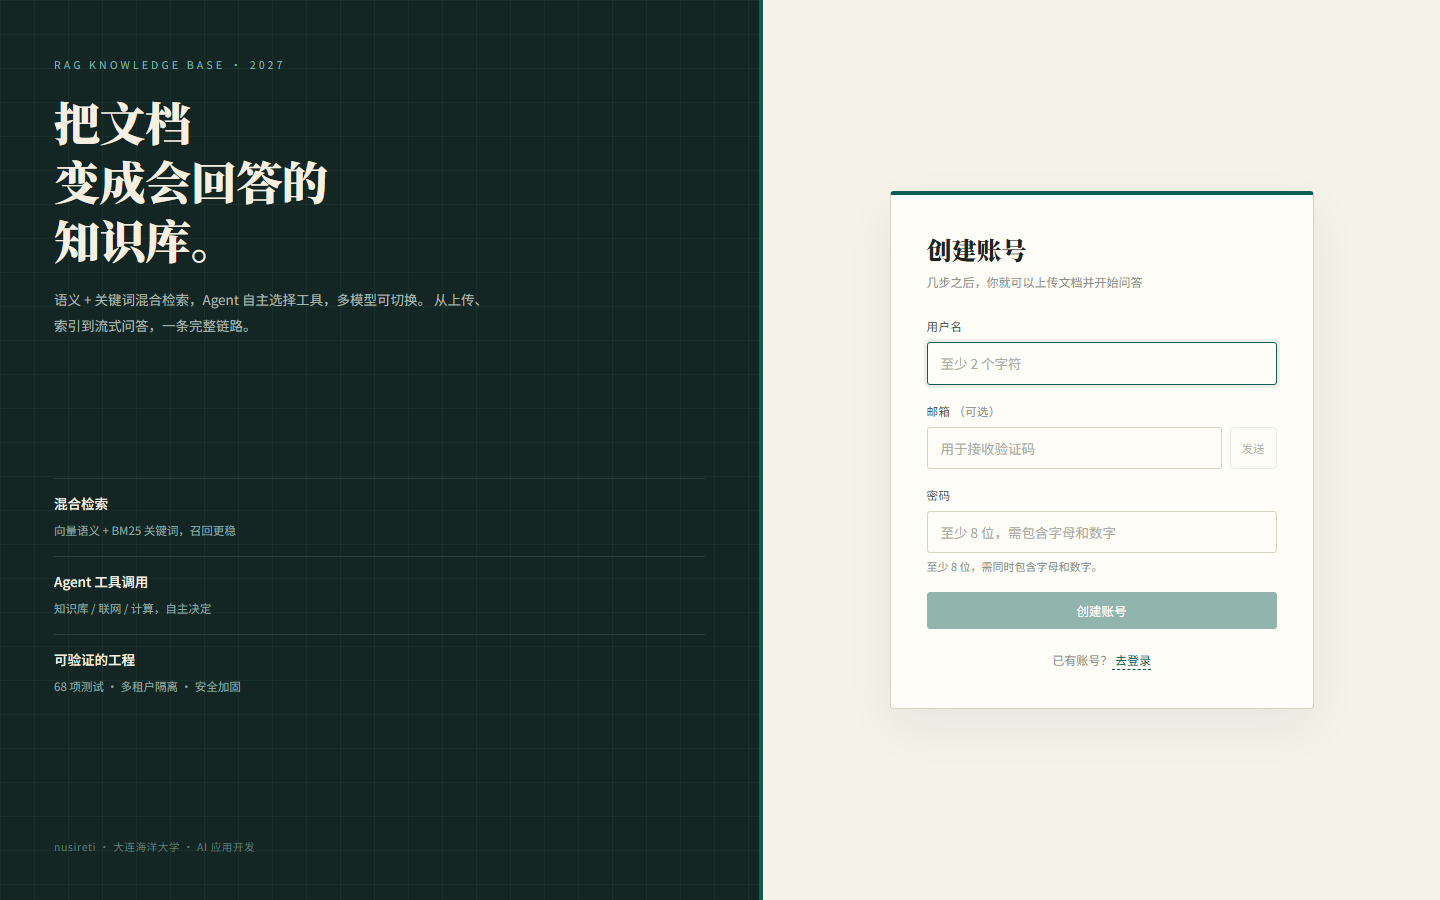
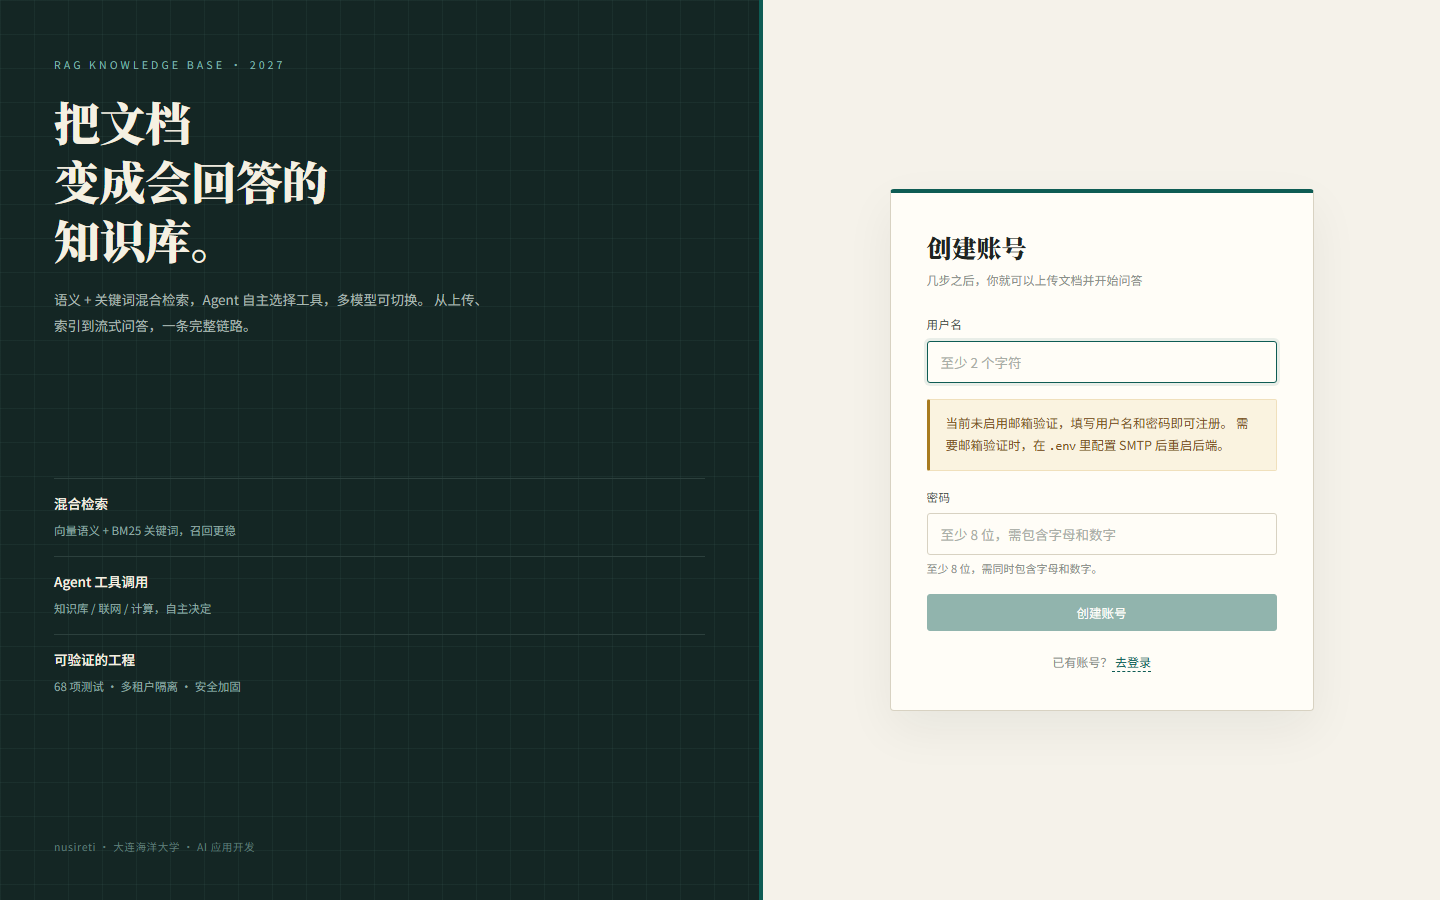
fix: 注册页在 SMTP 未配置时隐藏邮箱验证，避免 500
- app/verify.py: 新增 email_verification_enabled()，SMTP 账号/授权码不全时视为不可用
- backend/api/auth.py: 新增 /api/auth/capabilities；verify-code 未配置时返回 503 明确提示；
  注册仅在邮件服务可用时强制验证码
- frontend: 注册页按 capabilities 自动隐藏邮箱/验证码流程，未配置时直接用户名+密码注册
- tests: 新增 4 项注册/验证码回归测试（86 项全过）
- README/依赖注释/截图同步更新到 86 项

diff --git a/frontend/src/pages/Register.tsx b/frontend/src/pages/Register.tsx
@@ -14,9 +14,17 @@ export function RegisterPage() {
   const [error, setError] = useState('');
   const [codeSent, setCodeSent] = useState(false);
   const [cooldown, setCooldown] = useState(0);
+  const [emailVerification, setEmailVerification] = useState<boolean | null>(
+    null,
+  );
   const timer = useRef<number | null>(null);
 
   useEffect(() => {
+    auth
+      .capabilities()
+      .then((cap) => setEmailVerification(cap.email_verification))
+      .catch(() => setEmailVerification(false));
+
     return () => {
       if (timer.current) window.clearInterval(timer.current);
     };
@@ -46,8 +54,8 @@ export function RegisterPage() {
       const res = await auth.register(
         username.trim(),
         password,
-        email.trim(),
-        verifyCode.trim(),
+        emailVerification ? email.trim() : '',
+        emailVerification ? verifyCode.trim() : '',
       );
       localStorage.setItem('token', res.token);
       localStorage.setItem('username', res.username);
@@ -100,47 +108,56 @@ export function RegisterPage() {
           />
         </div>
 
-        <div className="field">
-          <label className="label" htmlFor="reg-email">
-            邮箱 <span style={{ color: 'var(--ink-mute)' }}>（可选）</span>
-          </label>
-          <div style={{ display: 'flex', gap: 8 }}>
-            <input
-              id="reg-email"
-              className="input"
-              type="email"
-              value={email}
-              onChange={(e) => setEmail(e.target.value)}
-              placeholder="用于接收验证码"
-              autoComplete="email"
-            />
-            <Button
-              size="sm"
-              onClick={sendCode}
-              disabled={!email.trim() || cooldown > 0}
-              style={{ flexShrink: 0 }}
-            >
-              {cooldown > 0 ? `${cooldown}s` : codeSent ? '重发' : '发送'}
-            </Button>
-          </div>
-        </div>
+        {emailVerification === null ? null : emailVerification ? (
+          <>
+            <div className="field">
+              <label className="label" htmlFor="reg-email">
+                邮箱 <span style={{ color: 'var(--ink-mute)' }}>（可选）</span>
+              </label>
+              <div style={{ display: 'flex', gap: 8 }}>
+                <input
+                  id="reg-email"
+                  className="input"
+                  type="email"
+                  value={email}
+                  onChange={(e) => setEmail(e.target.value)}
+                  placeholder="用于接收验证码"
+                  autoComplete="email"
+                />
+                <Button
+                  size="sm"
+                  onClick={sendCode}
+                  disabled={!email.trim() || cooldown > 0}
+                  style={{ flexShrink: 0 }}
+                >
+                  {cooldown > 0 ? `${cooldown}s` : codeSent ? '重发' : '发送'}
+                </Button>
+              </div>
+            </div>
 
-        {codeSent ? (
-          <div className="field">
-            <label className="label" htmlFor="reg-code">
-              验证码
-            </label>
-            <input
-              id="reg-code"
-              className="input"
-              type="text"
-              value={verifyCode}
-              onChange={(e) => setVerifyCode(e.target.value)}
-              placeholder="输入邮箱收到的验证码"
-              autoComplete="one-time-code"
-            />
+            {codeSent ? (
+              <div className="field">
+                <label className="label" htmlFor="reg-code">
+                  验证码
+                </label>
+                <input
+                  id="reg-code"
+                  className="input"
+                  type="text"
+                  value={verifyCode}
+                  onChange={(e) => setVerifyCode(e.target.value)}
+                  placeholder="输入邮箱收到的验证码"
+                  autoComplete="one-time-code"
+                />
+              </div>
+            ) : null}
+          </>
+        ) : (
+          <div className="note" style={{ marginBottom: 16 }}>
+            当前未启用邮箱验证，填写用户名和密码即可注册。
+            需要邮箱验证时，在 <code>.env</code> 里配置 SMTP 后重启后端。
           </div>
-        ) : null}
+        )}
 
         <div className="field">
           <label className="label" htmlFor="reg-password">

diff --git a/frontend/src/components/AuthShell.tsx b/frontend/src/components/AuthShell.tsx
@@ -40,7 +40,7 @@ export function AuthShell({
           </div>
           <div className="auth-point">
             <b>可验证的工程</b>
-            <span>68 项测试 · 多租户隔离 · 安全加固</span>
+            <span>86 项测试 · 多租户隔离 · 安全加固</span>
           </div>
         </div>
 

diff --git a/frontend/src/api.ts b/frontend/src/api.ts
@@ -84,6 +84,8 @@ export const auth = {
       body: JSON.stringify({ email }),
     }),
   getMe: () => request<UserInfo>('/auth/me'),
+  capabilities: () =>
+    request<{ email_verification: boolean }>('/auth/capabilities'),
 };
 
 /* ------------------------------------------------------------------ */

diff --git a/tests/test_register_api.py b/tests/test_register_api.py
@@ -1,0 +1,65 @@
+"""注册/验证码接口在 SMTP 未配置时的行为。"""
+
+import pytest
+from fastapi.testclient import TestClient
+
+from app.config import settings
+from backend.main import app
+
+
+@pytest.fixture(autouse=True)
+def smtp_off(monkeypatch):
+    """强制关闭 SMTP，保证测试结果与机器上的 .env 无关。"""
+    monkeypatch.setattr(settings, 'SMTP_ENABLE', False)
+    monkeypatch.setattr(settings, 'SMTP_USER', '')
+    monkeypatch.setattr(settings, 'SMTP_PASSWORD', '')
+
+
+def test_capabilities_reports_email_verification_off():
+    client = TestClient(app)
+    res = client.get('/api/auth/capabilities')
+
+    assert res.status_code == 200
+    assert res.json()['email_verification'] is False
+
+
+def test_verify_code_returns_503_without_smtp():
+    client = TestClient(app)
+    res = client.post(
+        '/api/auth/verify-code', json={'email': 'test@example.com'}
+    )
+
+    assert res.status_code == 503
+    assert '邮箱' in res.json()['detail']
+
+
+def test_register_without_email():
+    client = TestClient(app)
+    res = client.post(
+        '/api/auth/register',
+        json={
+            'username': 'reguser',
+            'password': 'Pass12345',
+            'email': '',
+            'verify_code': '',
+        },
+    )
+
+    assert res.status_code == 200
+    assert res.json()['username'] == 'reguser'
+
+
+def test_register_with_email_skips_code_when_smtp_disabled():
+    client = TestClient(app)
+    res = client.post(
+        '/api/auth/register',
+        json={
+            'username': 'reguser2',
+            'password': 'Pass12345',
+            'email': 'x@example.com',
+            'verify_code': '',
+        },
+    )
+
+    assert res.status_code == 200
+    assert res.json()['username'] == 'reguser2'

diff --git a/backend/api/auth.py b/backend/api/auth.py
@@ -52,12 +52,22 @@ async def login(req: LoginRequest):
     )
 
 
+@router.get("/capabilities")
+async def auth_capabilities():
+    """前端用来判断是否展示邮箱验证流程。"""
+    from app.verify import email_verification_enabled
+
+    return {"email_verification": email_verification_enabled()}
+
+
 @router.post("/register")
 async def register(req: RegisterRequest):
     """用户注册（带可选的验证码校验）"""
-    # 验证码校验
-    if req.email:
-        from app.verify import verify_code
+    from app.verify import email_verification_enabled, verify_code
+
+    # 只有邮件服务真正可用时才强制验证码。
+    # 未配置 SMTP 时如果还强制，注册页会永远卡在「验证码发送失败」。
+    if req.email and email_verification_enabled():
         if not verify_code(req.email, req.verify_code):
             raise HTTPException(status_code=400, detail="验证码错误或已过期")
 
@@ -81,8 +91,15 @@ async def register(req: RegisterRequest):
 
 @router.post("/verify-code")
 async def send_verify_code(req: VerifyCodeRequest):
-    """发送邮箱验证码"""
-    from app.verify import send_verify_code as _send
+    """发送邮箱验证码（未配置 SMTP 时明确告知，而不是 500）"""
+    from app.verify import email_verification_enabled, send_verify_code as _send
+
+    if not email_verification_enabled():
+        raise HTTPException(
+            status_code=503,
+            detail="邮件服务未配置，注册时可直接留空邮箱",
+        )
+
     ok = _send(req.email)
     if not ok:
         raise HTTPException(status_code=500, detail="验证码发送失败")

diff --git a/app/verify.py b/app/verify.py
@@ -19,6 +19,11 @@ from app.logger import logger
 _codes: dict[str, dict] = {}
 
 
+def email_verification_enabled() -> bool:
+    """邮件验证是否可用：需要开启 SMTP 且填了账号与授权码。"""
+    return bool(settings.SMTP_ENABLE and settings.SMTP_USER and settings.SMTP_PASSWORD)
+
+
 def generate_code(length: int = 6) -> str:
     """生成随机数字验证码"""
     return "".join(random.choices(string.digits, k=length))
@@ -26,8 +31,8 @@ def generate_code(length: int = 6) -> str:
 
 def send_email(to: str, subject: str, body: str) -> bool:
     """发送邮件"""
-    if not settings.SMTP_ENABLE:
-        logger.warning("SMTP 未启用，无法发送邮件")
+    if not email_verification_enabled():
+        logger.warning("SMTP 未配置完整，无法发送邮件")
         return False
 
     try:

diff --git a/README.md b/README.md
@@ -5,7 +5,7 @@
   <img src="https://img.shields.io/badge/TypeScript-5.9+-3178C6?style=flat-square&logo=typescript" alt="TypeScript">
   <img src="https://img.shields.io/badge/LangChain-1.3+-green?style=flat-square" alt="LangChain">
   <img src="https://img.shields.io/badge/ChromaDB-1.5-purple?style=flat-square" alt="Vector DB">
-  <img src="https://img.shields.io/badge/Tests-73%20passed-success?style=flat-square" alt="Tests">
+  <img src="https://img.shields.io/badge/Tests-86%20passed-success?style=flat-square" alt="Tests">
   <img src="https://img.shields.io/badge/Version-4.2-brightgreen?style=flat-square" alt="Version">
 </p>
 
@@ -287,7 +287,7 @@ docker-compose down
 ## 🧪 测试
 
 ```bash
-# 运行全部测试（当前 73 项）
+# 运行全部测试（当前 86 项）
 python -m pytest tests/ -q
 
 # 运行特定测试
@@ -307,7 +307,7 @@ python -m pytest tests/test_auth.py -v
 | v3.0 | 用户认证、数据库持久化、Docker 部署 | ✅ |
 | v4.0 | 多模型接入 + FastAPI/React 前端 | ✅ |
 | v4.1 | 混合检索（BM25 + Reranker） | ✅ |
-| v4.2 | 工程化：Alembic / 限流 / 健康检查 / 备份 / 73 项测试 | ✅ |
+| v4.2 | 工程化：Alembic / 限流 / 健康检查 / 备份 / 86 项测试 | ✅ |
 | v5.0 | 多模态（图片/语音）、开放 API | 📅 规划中 |
 
 ---
